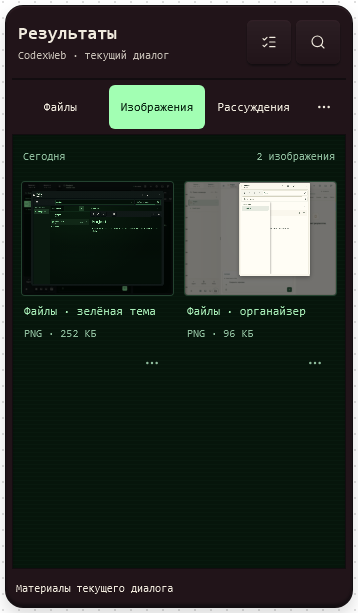
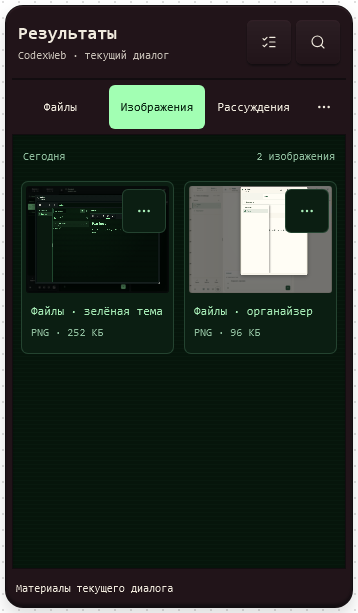
Frame Results image cards and move menu onto thumbnails

diff --git a/polish/05-files/results-study/results-study.html b/polish/05-files/results-study/results-study.html
@@ -114,15 +114,17 @@
   #cw-results-study .rs-check { display: flex; align-items: center; justify-content: center; min-width: 44px; height: 44px; }
   #cw-results-study .rs-check input { width: 19px; height: 19px; accent-color: var(--rs-active); }
   #cw-results-study .rs-images { display: grid; grid-template-columns: repeat(3,minmax(0,1fr)); gap: 16px 10px; padding: 8px 0 20px; }
-  #cw-results-study .rs-image { min-width: 0; position: relative; }
-  #cw-results-study .rs-image > .rs-open { display: block; padding: 0; width: 100%; }
-  #cw-results-study .rs-thumb { width: 100%; aspect-ratio: 4/3; object-fit: contain; background: var(--rs-screen-hi); border: 1px solid var(--rs-line); border-radius: 4px; display: block; margin-bottom: 7px; }
-  #cw-results-study .rs-image .rs-name { padding: 0 3px; font-size: 12px; }
-  #cw-results-study .rs-image .rs-meta { padding: 0 3px; }
-  #cw-results-study .rs-image-bottom { display: flex; justify-content: flex-end; }
-  #cw-results-study .rs-image .rs-actions { flex: 1; justify-content: flex-end; }
+  #cw-results-study .rs-image { min-width: 0; position: relative; padding: 4px; background: var(--rs-screen-hi); border: 1px solid var(--rs-line); border-radius: 7px; }
+  #cw-results-study .rs-image > .rs-open { display: block; padding: 0 0 8px; width: 100%; }
+  #cw-results-study .rs-thumb { width: 100%; aspect-ratio: 4/3; object-fit: contain; background: var(--rs-screen); border: 0; border-radius: 3px; display: block; margin-bottom: 9px; }
+  #cw-results-study .rs-image .rs-name { padding: 0 5px; font-size: 12px; }
+  #cw-results-study .rs-image .rs-meta { padding: 0 5px; }
+  #cw-results-study .rs-image-bottom, #cw-results-study .rs-image .rs-actions { display: contents; }
+  #cw-results-study .rs-image .rs-check { position: absolute; left: 7px; top: 7px; border-radius: 5px; background: var(--rs-screen-hi); }
   #cw-results-study .rs-image .rs-actions > .rs-key { display: none; }
-  #cw-results-study .rs-image .rs-actions > .rs-overflow { display: inline-flex; }
+  #cw-results-study .rs-image .rs-actions > .rs-overflow { display: inline-flex; position: absolute; right: 7px; top: 7px; color: var(--rs-text); background: var(--rs-screen-hi); border: 1px solid var(--rs-line); }
+  #cw-results-study .rs-image .rs-popover { top: 54px; right: 7px; }
+  #cw-results-study .rs-image:first-child .rs-popover { left: 7px; right: auto; }
   #cw-results-study .rs-service { border-bottom: 1px solid var(--rs-line); }
   #cw-results-study .rs-service summary { display: flex; align-items: center; gap: 10px; min-height: 64px; list-style: none; }
   #cw-results-study .rs-service summary::-webkit-details-marker { display: none; }
@@ -188,7 +190,7 @@
     #cw-results-study .rs-name { font-size: 12px; }
     #cw-results-study .rs-row { gap: 1px; }
     #cw-results-study .rs-image .rs-popover { min-width: 190px; }
-    #cw-results-study .rs-image:nth-child(odd) .rs-popover { left: 0; right: auto; }
+    #cw-results-study .rs-image:nth-child(odd) .rs-popover { left: 7px; right: auto; }
     #cw-results-study .rs-viewer-tools { gap: 2px; }
   }
   @media(max-width:350px) {

diff --git a/docs/CURRENT_STATUS.md b/docs/CURRENT_STATUS.md
@@ -15,6 +15,8 @@
 рассуждения, а в их последовательности — карточки работы. Вложенное раскрытие сохраняется
 при сворачивании запроса и переключении категории. Плотность автоматически свободнее
 на планшете/десктопе и компактнее на телефоне; отдельный выбор плотности убран.
+По IMG_0838 меню изображения перенесено в правый верхний угол миниатюры; тонкая рамка
+и тематическая подложка объединяют картинку, имя и размер в одну карточку.
 
 Chromium/WebKit проверили четыре темы на 320/390/736 px, меню, галерею, раскрытие действий,
 возврат из просмотра к поиску и выбору файлов, автоматическую плотность и оба уровня раскрытия

diff --git a/AGENTS.md b/AGENTS.md
@@ -14,6 +14,8 @@
   that reasoning. Retain nested expansion state when collapsing the request.
 - Results file rows use the roomier density on tablet/desktop and compact density
   on phones automatically; do not require a separate user density choice.
+- Image cards have a thin themed border/backing around the thumbnail and metadata.
+  Put their overflow menu at the thumbnail's upper-right corner, not below it.
 - The current Results mockup incorporates this direction. Its presentation remains
   a design discussion before production changes, as recorded below.
 

diff --git a/polish/05-files/results-study/390-green-image-menu.md b/polish/05-files/results-study/390-green-image-menu.md
@@ -1,3 +1,3 @@
-# Изображения — рамка, подложка и меню в углу
+# Изображение — раскрытое меню в верхнем углу
 
 Интерактивный эскиз Results, не установленный интерфейс. Контролируемые примерные данные. Снимок WebKit; не проверка физического устройства.
